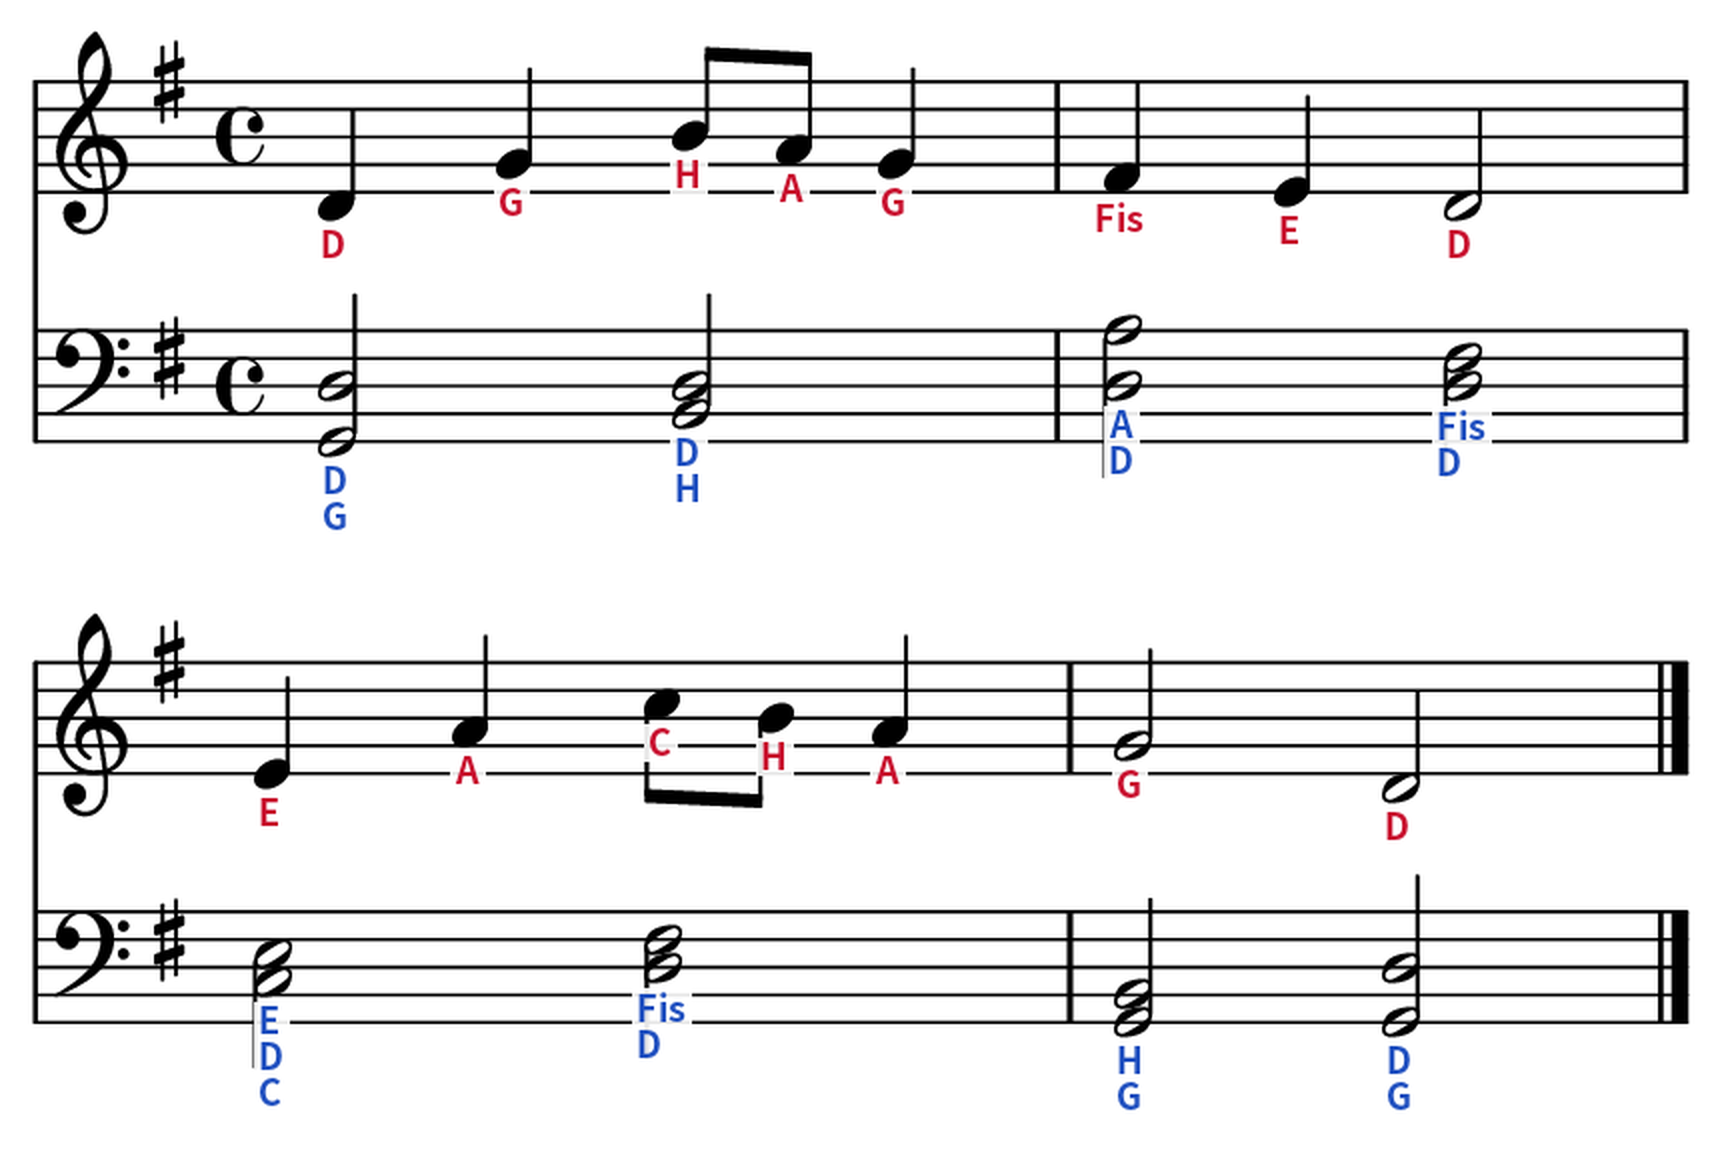
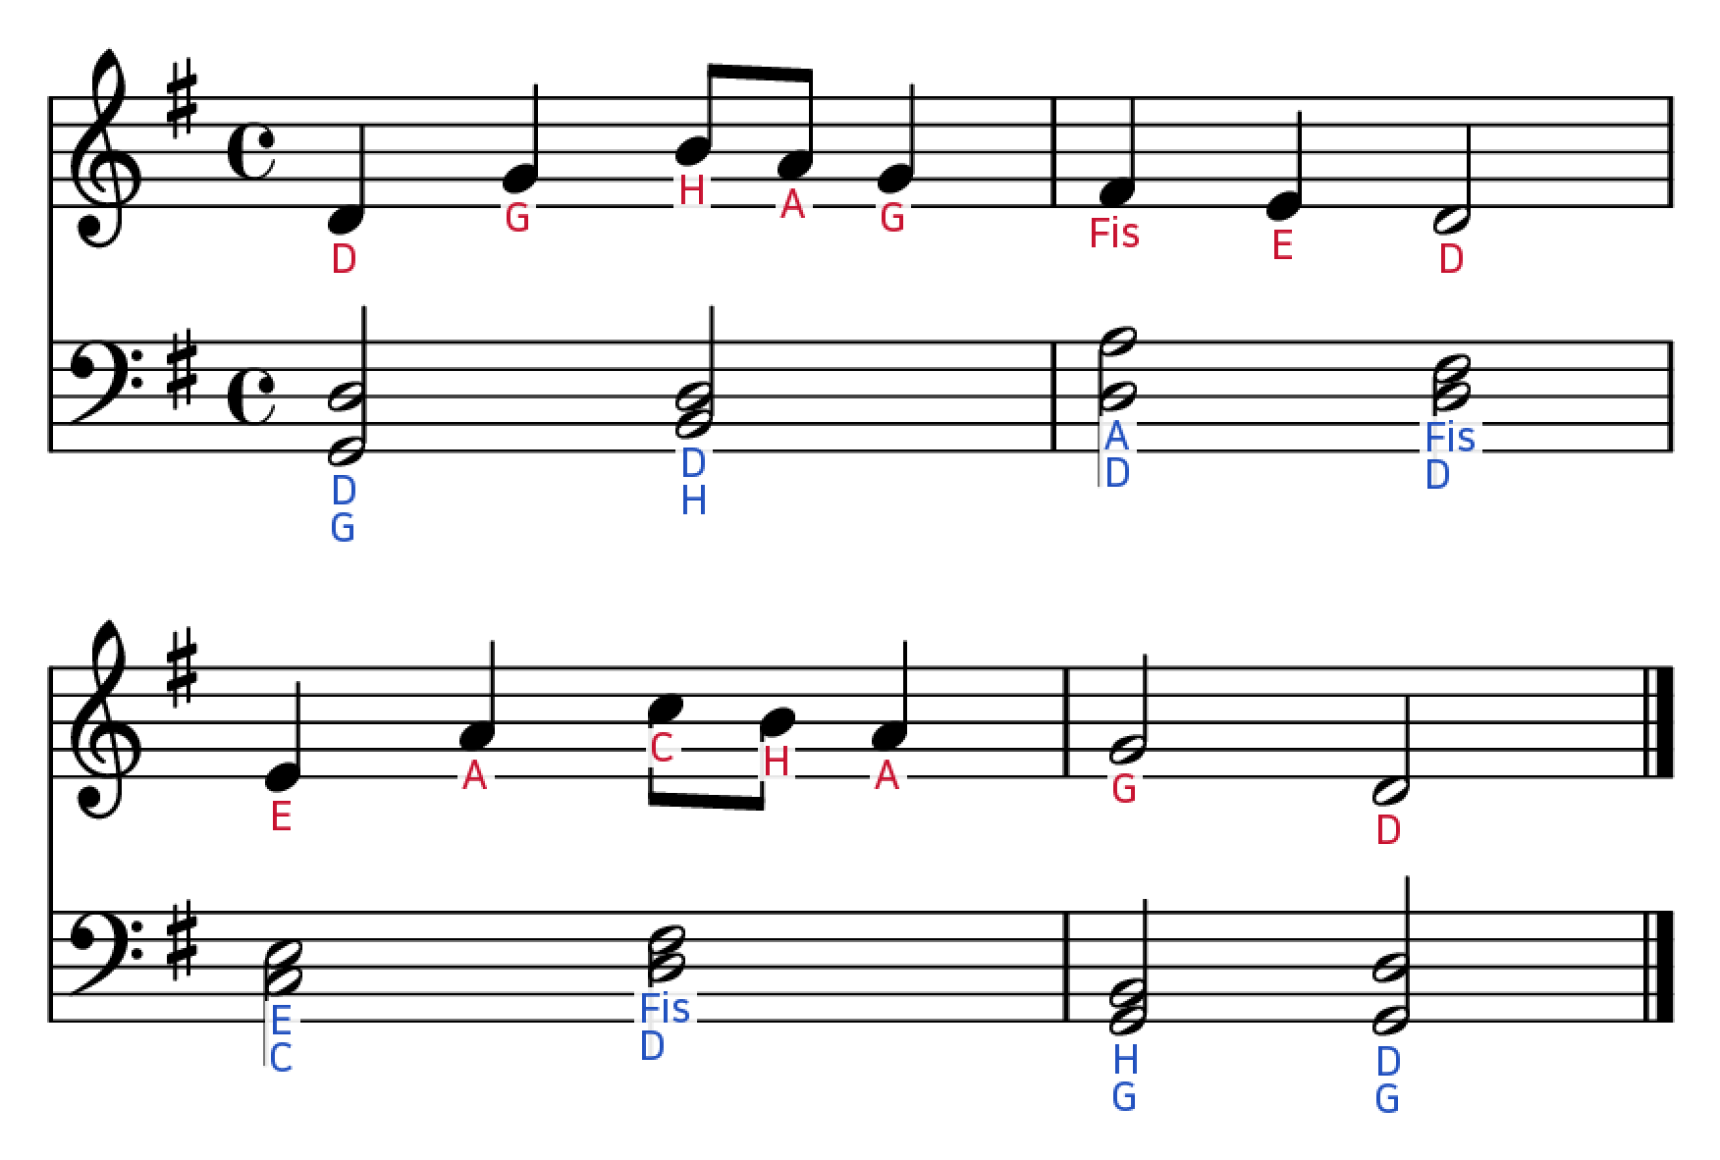
notalo: 히어로 이미지 계이름 오류 수정 (en/it/ja/de)
베이스 코드 "E C"가 "E D C"로 잘못 붙어있던 문제. 이 이미지는 지난 9월 14일에 그 당시 코드로
만든 정적 파일이라, 그 뒤 이번 세션에서 한 오선·음표 검출 수정들이 반영 안 된 채였음.

같은 LilyPond 원본(스크래치패드에 남아있던 hero2.ly)을 지금 코드로 다시 돌려서 검증:
- 원본 31개 음표 전부와 좌표·계이름 1:1 대조 완료(트레블 15개 + 베이스 화음 8개×2음)
- 문제였던 화음도 정확히 E, C 2개로 나옴
4개 언어(en/it/ja/de — ko/es/fr/pt는 UI에서 it 이미지를 재사용해 대상 아님) 전부 새로 생성.
index.html의 height 속성도 실제 크기(1160)로 맞춤.

Claude-Session: https://claude.ai/code/session_01HpQczNgaKV9onMN6EwRPbj

Changed region(s): [[0.0, 0.031, 0.986, 0.4655], [0.0, 0.5276, 0.986, 0.9621]]

diff --git a/notalo/static/index.html b/notalo/static/index.html
@@ -63,7 +63,7 @@ gtag('config', 'G-YKTS1ZLM3G');
     </div>
   </div>
   <figure>
-    <img id="hero-img" src="/hero/sample_en.png" alt="Piano sheet music with note names added in red (right hand) and blue (left hand)" width="1720" height="1162">
+    <img id="hero-img" src="/hero/sample_en.png" alt="Piano sheet music with note names added in red (right hand) and blue (left hand)" width="1720" height="1160">
     <figcaption data-i18n="hero.caption">Actual result. Right hand in red, left hand in blue.</figcaption>
   </figure>
 </section>
